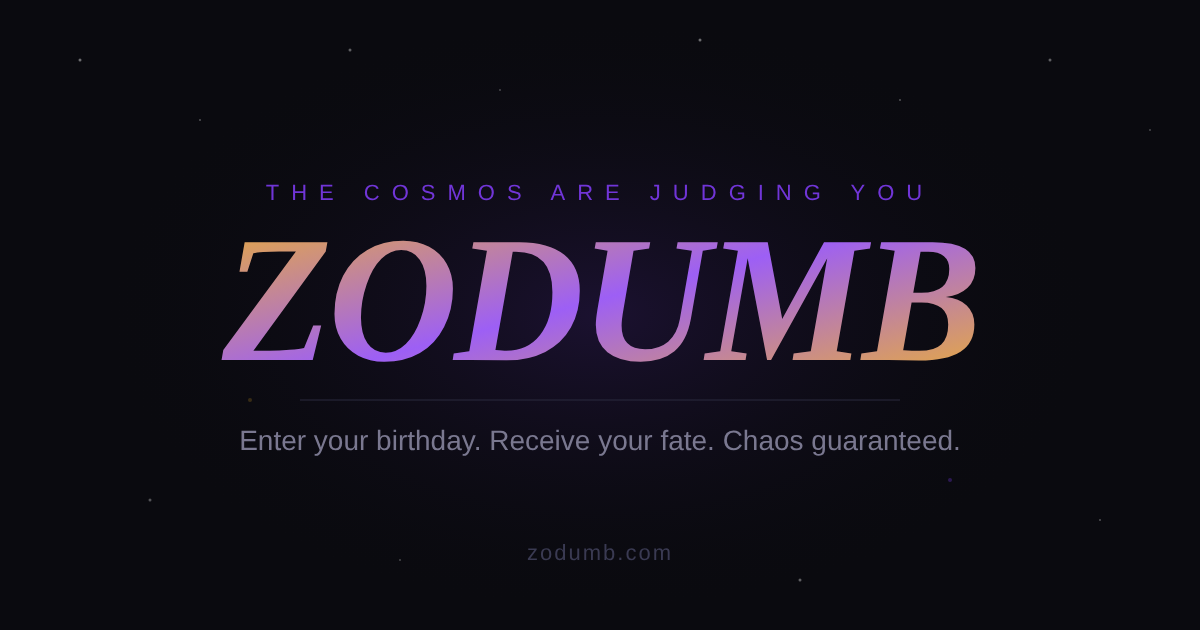
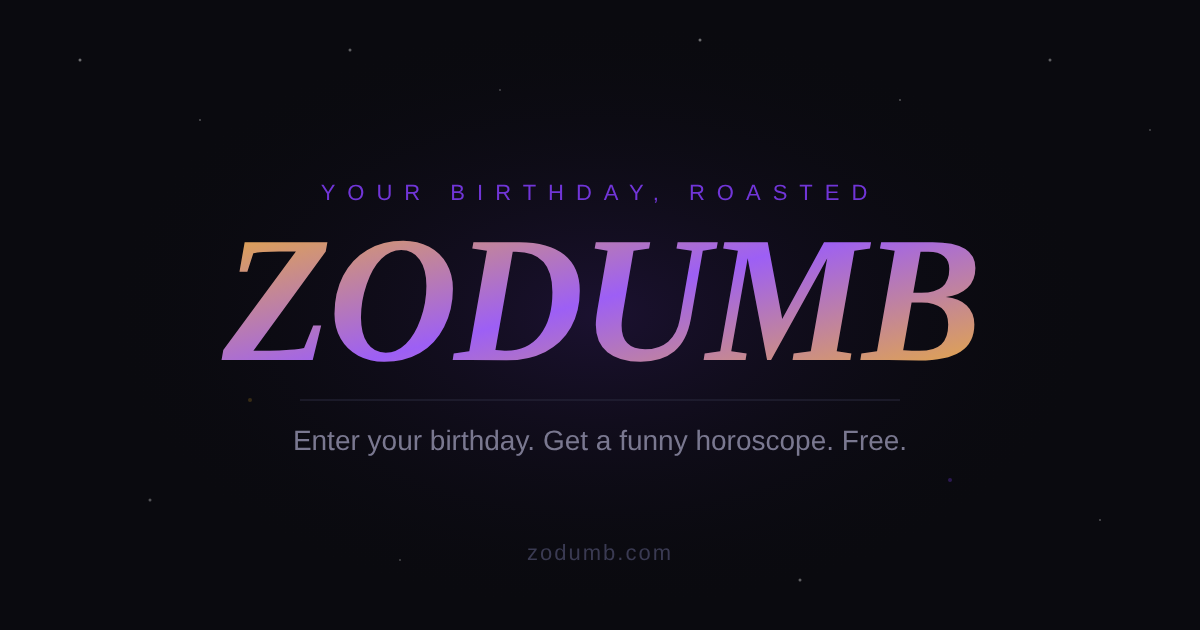
Tone down the home page and match its reading font to the other pages
Wording: replaces "The cosmos are judging you", "Receive your fate",
"Chaos is.", "Consult the Stars", "arguing with Mercury" and
"questionable cosmic energy" with plain copy, and removes "unhinged",
"chaos" and "pettiest" from the home page's SEO text, social preview
and README. Softens the horoscope vibes ("savage roast" -> "playful
roast", "full unhinged chaos" -> "silly and over-the-top") and the
compatibility relationship tones. Share text no longer says "cosmic"
or "unhinged", and every share card now reads "Made with Zodumb".

Font: horoscope and compatibility readings now use Space Grotesk, the
same as the generated messages on /sick, /money and /late, on the page
and on the share cards. Also fixes the compatibility card's score label
overlapping the big percentage.

Claude-Session: https://claude.ai/code/session_01VKu2d9zDfeNTazfPdeBYm8

Changed region(s): [[0.2467, 0.2714, 0.7708, 0.3317], [0.185, 0.6635, 0.8017, 0.7238]]

diff --git a/index.html b/index.html
@@ -8,8 +8,8 @@
 
     <!-- Primary SEO -->
     <title>Funny Birthday Horoscope &amp; Zodiac Compatibility | Zodumb</title>
-    <meta name="description" content="Get a hilariously unhinged AI birthday horoscope, or roast two signs in Cosmic Beef zodiac compatibility. Free, instant, shareable, no sign-up needed." />
-    <meta name="keywords" content="funny horoscope, birthday horoscope, horoscope generator, funny astrology, unhinged horoscope, comedy zodiac, zodiac compatibility, compatibility calculator, cosmic beef" />
+    <meta name="description" content="Get a funny AI birthday horoscope, or roast two signs with Cosmic Beef zodiac compatibility. Free, instant, easy to share, and no sign-up needed." />
+    <meta name="keywords" content="funny horoscope, birthday horoscope, horoscope generator, funny astrology, comedy zodiac, zodiac compatibility, compatibility calculator, cosmic beef" />
     <meta name="robots" content="index, follow, max-image-preview:large" />
     <link rel="canonical" href="https://zodumb.com" />
 
@@ -17,7 +17,7 @@
     <meta property="og:type" content="website" />
     <meta property="og:url" content="https://zodumb.com" />
     <meta property="og:title" content="Zodumb — Funny Birthday Horoscope Generator" />
-    <meta property="og:description" content="Enter your birthday. Get a horoscope so accurate it's basically useless. Free, instant chaos." />
+    <meta property="og:description" content="Enter your birthday and get a funny AI horoscope, or check your zodiac compatibility with someone. Free and instant." />
     <meta property="og:image" content="https://zodumb.com/og-image.png" />
     <meta property="og:image:width" content="1200" />
     <meta property="og:image:height" content="630" />
@@ -39,7 +39,7 @@
       "@type": "WebApplication",
       "name": "Zodumb",
       "url": "https://zodumb.com",
-      "description": "A funny AI-powered birthday horoscope and zodiac compatibility generator. Enter your birthday for an unhinged cosmic reading, or two birthdays for a Cosmic Beef compatibility score.",
+      "description": "A funny AI-powered birthday horoscope and zodiac compatibility generator. Enter your birthday for a funny reading, or two birthdays for a Cosmic Beef compatibility score.",
       "applicationCategory": "EntertainmentApplication",
       "operatingSystem": "All",
       "offers": {
@@ -61,7 +61,7 @@
           "name": "What is Zodumb?",
           "acceptedAnswer": {
             "@type": "Answer",
-            "text": "Zodumb is a free, AI-powered funny horoscope generator. Enter your birthday and it writes a hilariously unhinged cosmic reading based on your zodiac sign. There is a Cosmic Beef mode too, where you enter two birthdays to get a comedic zodiac compatibility score."
+            "text": "Zodumb is a free, AI-powered funny horoscope generator. Enter your birthday and it writes a funny reading based on your zodiac sign. There is a Cosmic Beef mode too, where you enter two birthdays to get a comedic zodiac compatibility score."
           }
         },
         {
@@ -69,7 +69,7 @@
           "name": "Is Zodumb real astrology?",
           "acceptedAnswer": {
             "@type": "Answer",
-            "text": "No. Zodumb is pure comedy. The horoscopes, compatibility percentages, and red and green flags are all made up by AI for entertainment. Accuracy is not guaranteed. Chaos is."
+            "text": "No. Zodumb is pure comedy. The horoscopes, compatibility percentages, and red and green flags are all made up by AI for entertainment."
           }
         },
         {
@@ -143,23 +143,23 @@
     <div class="seo-divider"></div>
     <article class="seo-content">
       <h2>What is Zodumb?</h2>
-      <p><strong>Zodumb</strong> is a free, AI-powered <strong>funny horoscope generator</strong>. Enter your birthday and get a hilariously unhinged cosmic reading based on your zodiac sign — part roast, part fortune cookie, zero accuracy. No sign-up, no account, just instant chaos you can share.</p>
+      <p><strong>Zodumb</strong> is a free, AI-powered <strong>funny horoscope generator</strong>. Enter your birthday and get a funny reading based on your zodiac sign — part roast, part fortune cookie, zero accuracy. No sign-up, no account, and easy to share.</p>
 
       <h2>Cosmic Beef — zodiac compatibility, roasted</h2>
-      <p>Switch to <strong>Cosmic Beef</strong> to check the <strong>zodiac compatibility</strong> between two people. Drop in two birthdays, choose how you know each other — dating, crushing, friends, siblings, roommates, coworkers, exes, or sworn enemies — and Zodumb returns an absurd compatibility percentage, a red-flag and green-flag count, and a ridiculous cosmic verdict. It is the pettiest compatibility calculator on the internet.</p>
+      <p>Switch to <strong>Cosmic Beef</strong> to check the <strong>zodiac compatibility</strong> between two people. Drop in two birthdays, choose how you know each other — dating, crushing, friends, siblings, roommates, coworkers, exes, or sworn enemies — and Zodumb returns an absurd compatibility percentage, a red-flag and green-flag count, and a funny final verdict.</p>
 
       <h2>How it works</h2>
       <ol>
         <li>Pick <strong>Solo Reading</strong> for one birthday, or <strong>Cosmic Beef</strong> for two.</li>
         <li>Enter the date(s) of birth and, for compatibility, the relationship type.</li>
         <li>Get an instant AI horoscope or compatibility score.</li>
-        <li>Download a share card and post your fate.</li>
+        <li>Download a share card and post your reading.</li>
       </ol>
 
       <h2>Frequently asked questions</h2>
 
       <h3>Is Zodumb real astrology?</h3>
-      <p>No. Zodumb is pure comedy. The horoscopes, compatibility percentages, and flags are all invented by AI for entertainment. Accuracy is not guaranteed — chaos is.</p>
+      <p>No. Zodumb is pure comedy. The horoscopes, compatibility percentages, and flags are all invented by AI for entertainment.</p>
 
       <h3>How does the compatibility score work?</h3>
       <p>Zodumb reads both zodiac signs and the relationship type you picked, then makes up a funny compatibility percentage and verdict. It is a punchline, not a measurement.</p>

diff --git a/src/shareCard.js b/src/shareCard.js
@@ -155,8 +155,10 @@ function renderSolo(ctx, result) {
   drawDivider(ctx, 780)
 
   ctx.fillStyle = COLORS.text
-  ctx.font = `700 italic 52px ${SERIF}`
-  drawWrapped(ctx, result.horoscope, W / 2, 920, W - PAD * 2, 78)
+  ctx.font = `500 44px ${SANS}`
+  ctx.textAlign = 'left'
+  drawWrapped(ctx, result.horoscope, PAD, 900, W - PAD * 2, 68)
+  ctx.textAlign = 'center'
 }
 
 function renderBeef(ctx, beef) {
@@ -178,12 +180,12 @@ function renderBeef(ctx, beef) {
   // Score label
   ctx.fillStyle = COLORS.text
   ctx.font = `700 italic 44px ${SERIF}`
-  ctx.fillText(beef.scoreLabel, W / 2, 930)
+  ctx.fillText(beef.scoreLabel, W / 2, 965)
 
   // Score bar
   const barW = W - PAD * 2
   const barX = PAD
-  const barY = 985
+  const barY = 1015
   ctx.fillStyle = COLORS.deep
   roundRect(ctx, barX, barY, barW, 18, 9)
   ctx.fill()
@@ -199,14 +201,16 @@ function renderBeef(ctx, beef) {
   // Flags
   ctx.fillStyle = COLORS.muted
   ctx.font = `500 34px ${SANS}`
-  ctx.fillText(`🚩 ${beef.redFlags} red      🟢 ${beef.greenFlags} green`, W / 2, 1090)
+  ctx.fillText(`🚩 ${beef.redFlags} red      🟢 ${beef.greenFlags} green`, W / 2, 1115)
 
-  drawDivider(ctx, 1150)
+  drawDivider(ctx, 1175)
 
   // Reading
   ctx.fillStyle = COLORS.text
-  ctx.font = `700 italic 48px ${SERIF}`
-  const afterReading = drawWrapped(ctx, beef.reading, W / 2, 1270, W - PAD * 2, 70)
+  ctx.font = `500 40px ${SANS}`
+  ctx.textAlign = 'left'
+  const afterReading = drawWrapped(ctx, beef.reading, PAD, 1285, W - PAD * 2, 62)
+  ctx.textAlign = 'center'
 
   // Verdict
   ctx.fillStyle = COLORS.gold
@@ -348,8 +352,7 @@ export async function generateShareImage({ mode, result, beef, sick, money, late
   ctx.textBaseline = 'alphabetic'
 
   drawBackground(ctx)
-  const isExcuse = mode === 'sick' || mode === 'money' || mode === 'late'
-  drawHeader(ctx, isExcuse ? 'MADE WITH ZODUMB' : 'THE COSMOS ARE JUDGING YOU')
+  drawHeader(ctx, 'MADE WITH ZODUMB')
 
   if (mode === 'beef' && beef) renderBeef(ctx, beef)
   else if (mode === 'sick' && sick) renderSick(ctx, sick)
@@ -376,11 +379,11 @@ export async function shareOrDownloadCard({ mode, result, beef, sick, money, lat
   const file = new File([blob], filename, { type: 'image/png' })
 
   const shareText =
-    mode === 'beef' ? 'Our cosmic compatibility 💘'
+    mode === 'beef' ? 'Our zodiac compatibility 💘'
     : mode === 'sick' ? 'My sick-day excuse 🤒'
     : mode === 'money' ? 'Why I can\'t lend you money 💸'
     : mode === 'late' ? 'My running-late excuse ⏰'
-    : 'My unhinged horoscope ✦'
+    : 'My Zodumb horoscope ✦'
 
   if (navigator.canShare && navigator.canShare({ files: [file] })) {
     try {

diff --git a/src/App.jsx b/src/App.jsx
@@ -127,10 +127,10 @@ export default function App() {
 
         {/* Header */}
         <header style={styles.header}>
-          <div style={styles.eyebrow}>THE COSMOS ARE JUDGING YOU</div>
+          <div style={styles.eyebrow}>YOUR BIRTHDAY, ROASTED</div>
           <div style={styles.title}>ZODUMB</div>
           <h1 style={styles.pageH1}>Funny Birthday Horoscope &amp; Zodiac Compatibility Generator</h1>
-          <p style={styles.subtitle}>Enter your birthday. Receive your fate.<br />Accuracy not guaranteed. Chaos is.</p>
+          <p style={styles.subtitle}>Enter your birthday. Get a funny horoscope.<br />For entertainment only.</p>
         </header>
 
         {/* Mode toggle */}
@@ -172,7 +172,7 @@ export default function App() {
                 disabled={!birthday}
                 style={{ ...styles.button, ...(!birthday ? styles.buttonDisabled : {}) }}
               >
-                Consult the Stars →
+                Get My Horoscope →
               </button>
               {error && <p style={styles.error}>⚠ {error}</p>}
             </div>
@@ -228,7 +228,7 @@ export default function App() {
                 disabled={!birthday1 || !birthday2}
                 style={{ ...styles.button, ...(!birthday1 || !birthday2 ? styles.buttonDisabled : {}) }}
               >
-                Read the Cosmic Beef →
+                Check Our Compatibility →
               </button>
               {error && <p style={styles.error}>⚠ {error}</p>}
             </div>
@@ -238,9 +238,9 @@ export default function App() {
           {loading && (
             <div style={styles.loading}>
               <div style={styles.orb} />
-              <p style={styles.loadingText}>The cosmos are deliberating…</p>
+              <p style={styles.loadingText}>Reading your signs…</p>
               <p style={styles.loadingSubtext}>
-                {mode === 'beef' ? 'Cross-referencing your incompatibilities.' : 'This may involve arguing with Mercury.'}
+                {mode === 'beef' ? 'Cross-referencing your incompatibilities.' : 'Looking up your sign.'}
               </p>
             </div>
           )}
@@ -303,7 +303,7 @@ export default function App() {
 
         {/* Footer */}
         <footer style={styles.footer}>
-          <p>Made with questionable cosmic energy · No stars were harmed</p>
+          <p>Made by Zodumb · For entertainment only</p>
         </footer>
 
       </div>

diff --git a/api/compatibility.js b/api/compatibility.js
@@ -2,7 +2,7 @@ export const config = {
   runtime: 'edge',
 };
 
-// Relationship flavors — each nudges the cosmic tone in a different direction.
+// Relationship flavors — each nudges the tone in a different direction.
 const RELATIONSHIPS = {
   crushing: {
     label: 'a hopeless crush',
@@ -14,11 +14,11 @@ const RELATIONSHIPS = {
   },
   friends: {
     label: 'friends',
-    tone: 'best-friend chaos. Roast the codependency and shared bad decisions.',
+    tone: 'best friends. Roast the codependency and shared bad decisions.',
   },
   siblings: {
     label: 'siblings',
-    tone: 'sibling rivalry chaos. Roast the lifelong competition, shared trauma, and who Mom loves more.',
+    tone: 'sibling rivalry. Roast the lifelong competition, shared trauma, and who Mom loves more.',
   },
   roommates: {
     label: 'roommates',
@@ -34,7 +34,7 @@ const RELATIONSHIPS = {
   },
   enemies: {
     label: 'sworn enemies',
-    tone: 'petty warfare. Roast the beef with maximum drama.',
+    tone: 'a long-running rivalry. Roast the beef with lots of drama.',
   },
 };
 

diff --git a/api/horoscope.js b/api/horoscope.js
@@ -3,13 +3,13 @@ export const config = {
 };
 
 const VIBES = [
-  "savage roast",
-  "absurd and chaotic",
+  "playful roast",
+  "absurd and silly",
   "sarcastic but sweet",
-  "full unhinged chaos",
+  "silly and over-the-top",
   "passive aggressive fortune cookie",
   "conspiracy theorist astrologer",
-  "overly dramatic soap opera",
+  "overly dramatic",
   "disappointed parent energy"
 ];
 
@@ -71,7 +71,7 @@ Rules:
     return new Response(JSON.stringify({ error: data.error?.message || JSON.stringify(data) }), { status: 500 });
   }
 
-  const horoscope = data.candidates?.[0]?.content?.parts?.[0]?.text || 'The stars are currently buffering. Try again.';
+  const horoscope = data.candidates?.[0]?.content?.parts?.[0]?.text || 'Something went wrong reading your sign. Try again.';
 
   return new Response(JSON.stringify({ horoscope, vibe: randomVibe, sign: zodiacSign }), {
     status: 200,

diff --git a/src/styles.js b/src/styles.js
@@ -307,10 +307,9 @@ export const baseStyles = {
     background: 'linear-gradient(90deg, transparent, #2a2a3e, transparent)',
   },
   horoscope: {
-    fontFamily: 'Cormorant Garamond, serif',
-    fontSize: '1.05rem',
-    fontStyle: 'italic',
-    lineHeight: 1.85,
+    fontFamily: 'Space Grotesk, sans-serif',
+    fontSize: '1rem',
+    lineHeight: 1.7,
     color: '#e8e6f0',
   },
   verdict: {

diff --git a/README.md b/README.md
@@ -1,6 +1,6 @@
-# 🔮 Zodumb — Your Unhinged Birthday Horoscope
+# 🔮 Zodumb — Your Funny Birthday Horoscope
 
-Enter your birthday. Receive your fate. Accuracy not guaranteed. Chaos is.
+Enter your birthday. Get a funny horoscope. For entertainment only.
 
 Five modes: **Solo Reading** (a birthday horoscope), **Cosmic Beef** (zodiac compatibility for two people), **Call In Sick** (an AI-crafted excuse, at `/sick`), **Why I Can't Lend You Money** (gentle-to-absurd ways to say no to a loan, at `/money`), and **Late to Work Excuse** (an AI-written "running late" message, at `/late`).
 
